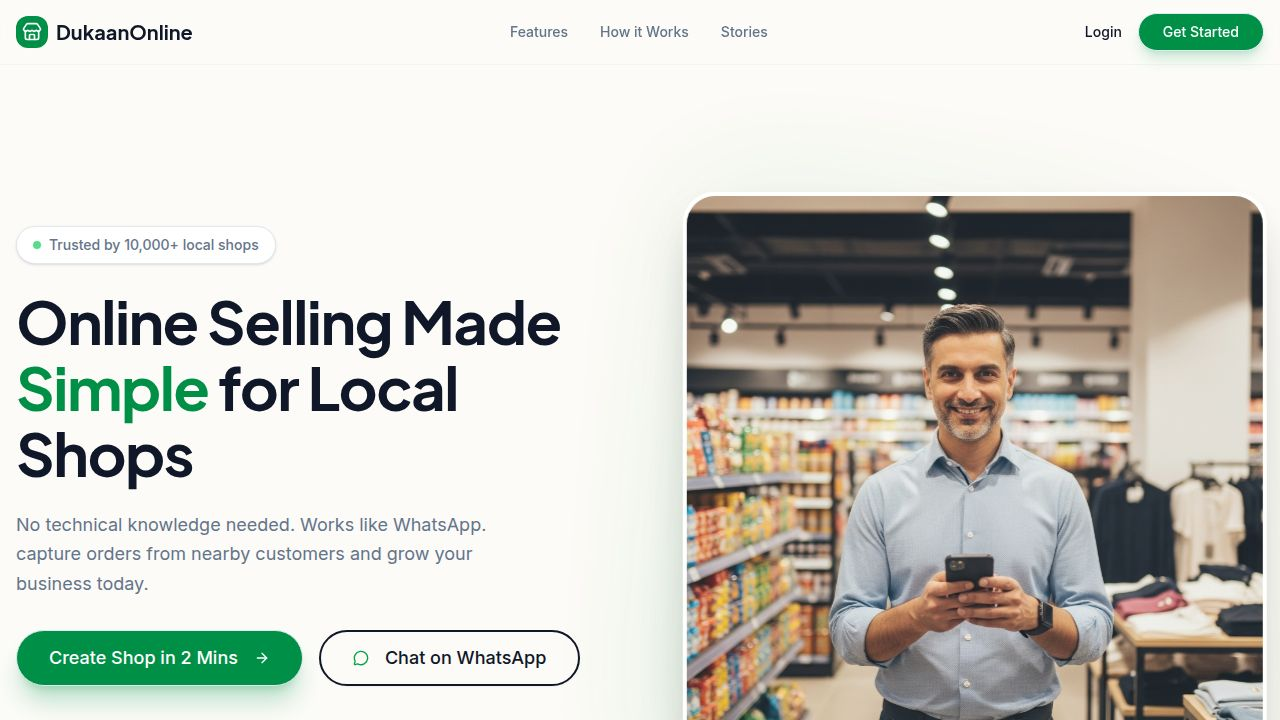
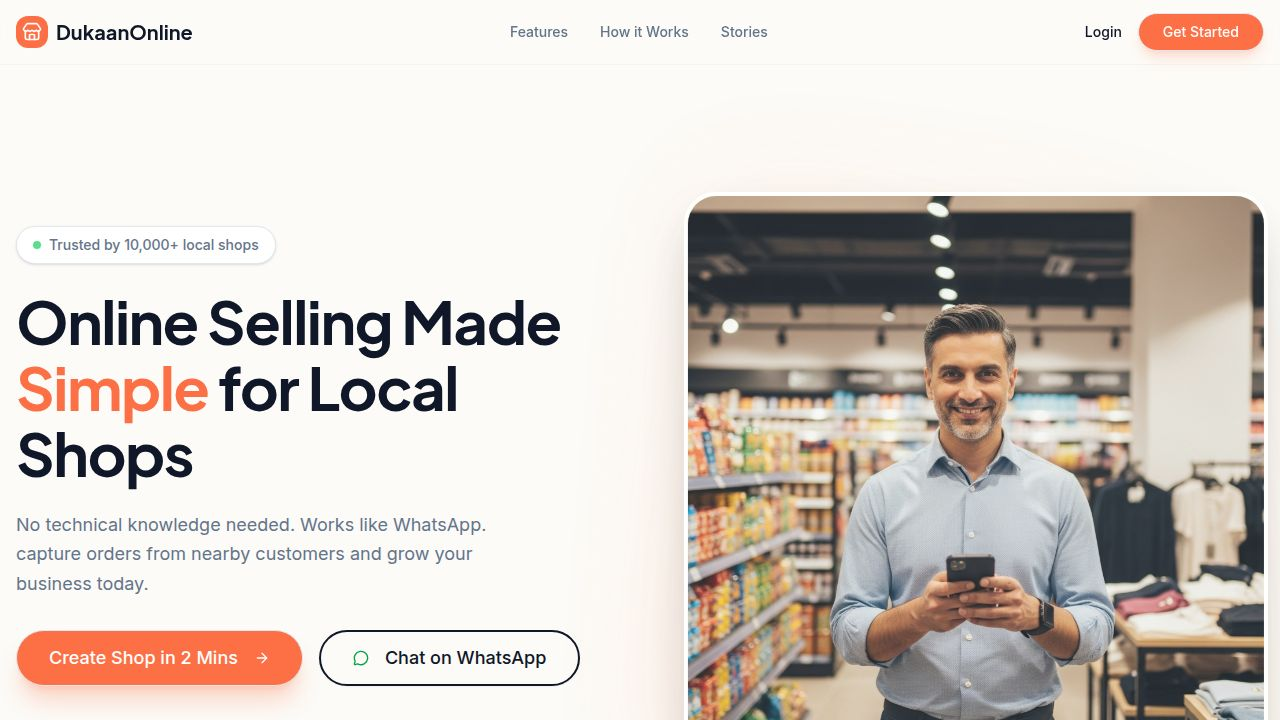
Update primary color to warm orange and adjust accents
Modify CSS variables in index.css to set the primary color to `--color-brand-orange` and adjust related color tokens like `--color-secondary` and `--color-ring`.

Replit-Commit-Author: Agent
Replit-Commit-Session-Id: d5bbd877-b953-42a1-a8d7-3929aa724e1e
Replit-Commit-Checkpoint-Type: full_checkpoint
Replit-Commit-Event-Id: d1208907-1ac7-46c7-ab26-7f29074cbd3d
Replit-Commit-Screenshot-Url: https://storage.googleapis.com/screenshot-production-us-central1/3a9de3b2-5434-48ae-8385-34a38af90a14/d5bbd877-b953-42a1-a8d7-3929aa724e1e/T3khGqa
Replit-Helium-Checkpoint-Created: true

diff --git a/client/src/index.css b/client/src/index.css
@@ -12,7 +12,7 @@
   /* Brand Colors */
   --color-brand-green: hsl(150 100% 28%); /* Deep Trustworthy Green */
   --color-brand-light-green: hsl(146 68% 55%); /* Bright Action Green */
-  --color-brand-orange: hsl(25 95% 53%); /* Warm Action Orange */
+  --color-brand-orange: hsl(14 98% 63%); /* Primary Brand Orange */
   --color-brand-cream: hsl(40 50% 98%); /* Warm Background */
 
   --color-background: var(--color-brand-cream);
@@ -24,16 +24,16 @@
   --color-popover: hsl(0 0% 100%);
   --color-popover-foreground: hsl(222 47% 11%);
   
-  --color-primary: var(--color-brand-green);
+  --color-primary: var(--color-brand-orange);
   --color-primary-foreground: hsl(0 0% 100%);
   
-  --color-secondary: hsl(146 68% 95%); /* Very light green for backgrounds */
-  --color-secondary-foreground: var(--color-brand-green);
+  --color-secondary: hsl(14 98% 96%); /* Light orange for backgrounds */
+  --color-secondary-foreground: var(--color-brand-orange);
   
   --color-muted: hsl(210 40% 96.1%);
   --color-muted-foreground: hsl(215.4 16.3% 46.9%);
   
-  --color-accent: var(--color-brand-orange);
+  --color-accent: var(--color-brand-green);
   --color-accent-foreground: hsl(0 0% 100%);
   
   --color-destructive: hsl(0 84.2% 60.2%);
@@ -41,7 +41,7 @@
   
   --color-border: hsl(214.3 31.8% 91.4%);
   --color-input: hsl(214.3 31.8% 91.4%);
-  --color-ring: var(--color-brand-green);
+  --color-ring: var(--color-brand-orange);
   
   --color-chart-1: hsl(12 76% 61%);
   --color-chart-2: hsl(173 58% 39%);
